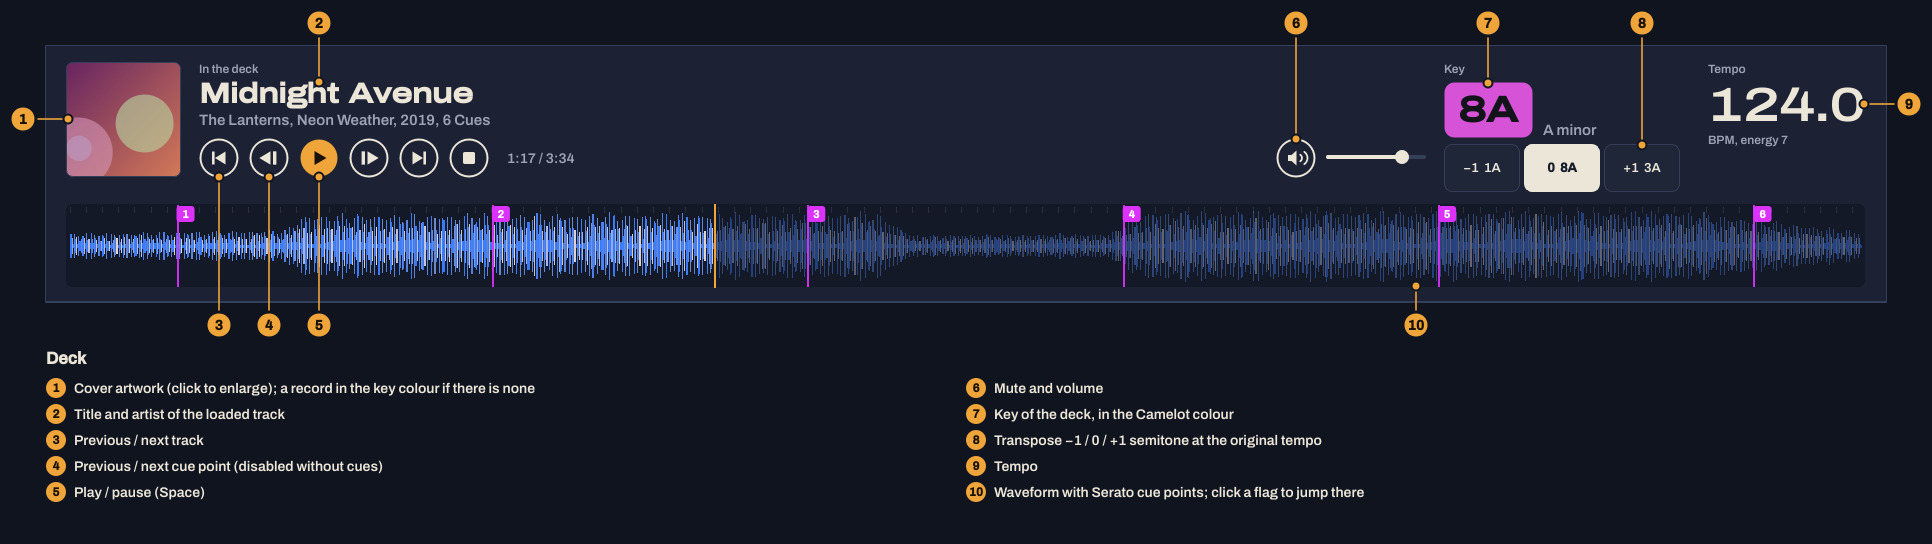
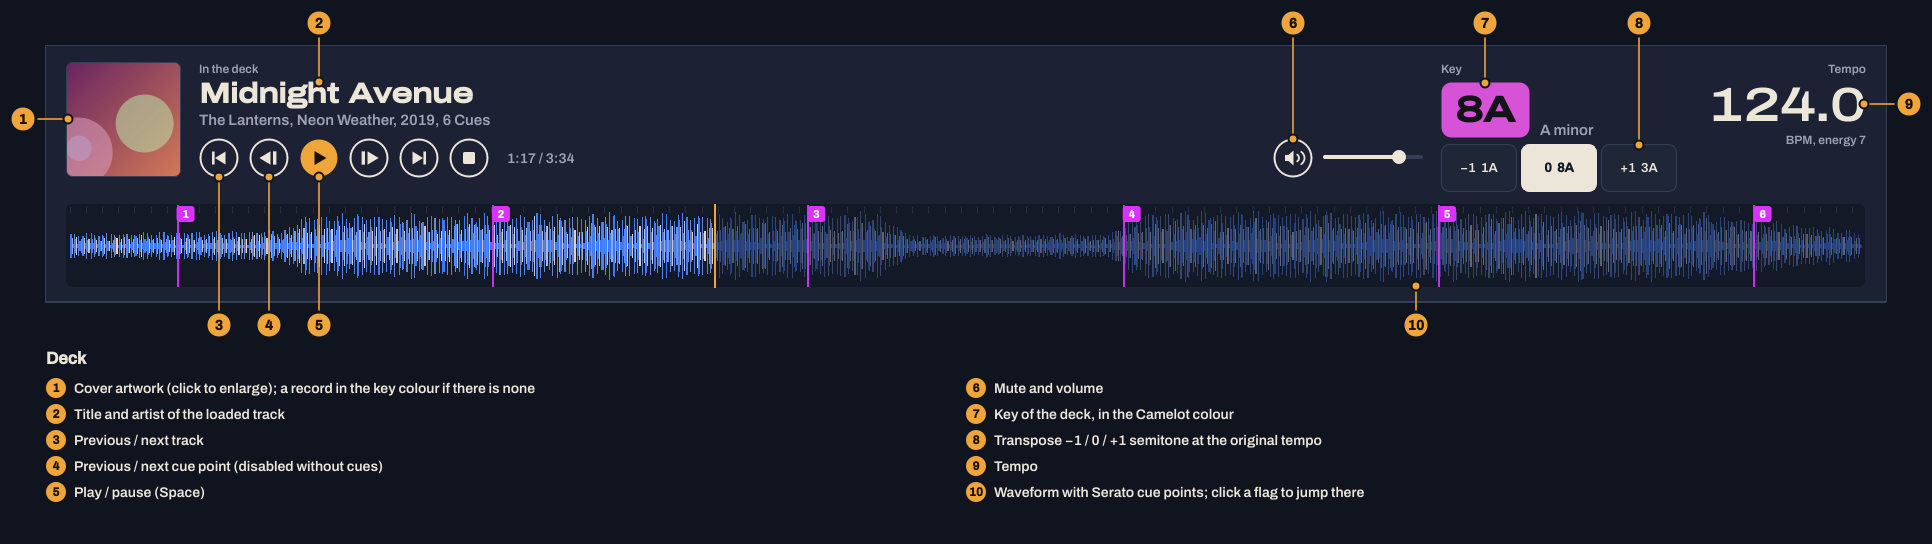
Deck: fixed tempo column so the deck no longer shifts
- Tempo, its caption and "BPM, energy" sit in a column of fixed width
  (widest possible tempo for the current language and font), right-aligned:
  a two-digit tempo no longer moves the key block and volume by 36 px
- Key name next to the chip gets a fixed width as well; names that do not
  fit are shortened with "…" (full name in the tooltip)
- Widths are recalculated on language, font and style changes
- Test: key chip, transpose buttons and volume stay put across tempos and
  key names (English and German); docs screenshots refreshed

Claude-Session: https://claude.ai/code/session_01WHPo8iWepkYybUHWQj5Dcp

diff --git a/keytool/gui/player.py b/keytool/gui/player.py
@@ -693,6 +693,9 @@ class PlayerPanel(QWidget, Translatable):
         self.bpm_sub = QLabel(); self.bpm_sub.setObjectName("deckSmall")
         tempo.addWidget(self.tempo_caption); tempo.addWidget(self.bpm_lbl); tempo.addWidget(self.bpm_sub)
         tempo.addStretch(1)
+        # fixed width, right-aligned: a two-digit tempo must not move the key block (see _fix_widths)
+        for lbl in (self.tempo_caption, self.bpm_lbl, self.bpm_sub):
+            lbl.setAlignment(Qt.AlignRight | Qt.AlignVCenter)
         top.addLayout(tempo, 0)
 
         self.wave = WaveformView()
@@ -733,6 +736,7 @@ class PlayerPanel(QWidget, Translatable):
         self.key_caption.setText(tr("key"))
         self.key_caption.setToolTip(tr("transpose"))
         self.tempo_caption.setText(tr("tempo_short"))
+        self._fix_widths()
         self.caption.setText(tr("deck_caption"))
         self.prev_btn.setToolTip(tr("prev_track") + " (Ctrl+←)")
         self.next_btn.setToolTip(tr("next_track") + " (Ctrl+→)")
@@ -771,12 +775,42 @@ class PlayerPanel(QWidget, Translatable):
     def showEvent(self, e):
         super().showEvent(e)
         QTimer.singleShot(0, self._fit_cover)
+        QTimer.singleShot(0, self._refit)
+
+    def _refit(self):
+        self._fix_widths()
+        self._update_title()
 
     def changeEvent(self, e):
         super().changeEvent(e)
         from PySide6.QtCore import QEvent
         if e.type() in (QEvent.FontChange, QEvent.StyleChange):
             QTimer.singleShot(0, self._fit_cover)
+            QTimer.singleShot(0, self._refit)
+
+    KEY_NAME_MAX = 170          # px; longer key names are shortened with "…" (full name in the tooltip)
+
+    def _fix_widths(self):
+        """Give the tempo column and the key name a fixed width for the current language and fonts, so the
+        deck does not shift when the tempo has two instead of three digits or the key name changes length."""
+        for lbl in (self.bpm_lbl, self.bpm_sub, self.tempo_caption, self.key_name):
+            lbl.ensurePolished()
+        num = self.bpm_lbl.fontMetrics()
+        small = self.bpm_sub.fontMetrics()
+        w = max(num.horizontalAdvance(fmt_number(888.8)), num.horizontalAdvance("–"),
+                small.horizontalAdvance(tr("bpm_energy", e=10)),
+                self.tempo_caption.fontMetrics().horizontalAdvance(self.tempo_caption.text())) + 4
+        for lbl in (self.tempo_caption, self.bpm_lbl, self.bpm_sub):
+            lbl.setFixedWidth(w)
+        fm = self.key_name.fontMetrics()
+        longest = max(fm.horizontalAdvance(f"{Key(pc, minor).long_name(tr.lang)}, +1")
+                      for pc in range(12) for minor in (False, True))
+        self.key_name.setFixedWidth(min(self.KEY_NAME_MAX, longest + 2))
+
+    def _set_key_name(self, text: str):
+        fm = self.key_name.fontMetrics()
+        self.key_name.setText(fm.elidedText(text, Qt.ElideRight, self.key_name.width()))
+        self.key_name.setToolTip(text if self.key_name.text() != text else "")
 
     def set_dark(self, dark: bool):
         self.wave.dark = dark
@@ -818,7 +852,7 @@ class PlayerPanel(QWidget, Translatable):
         if playing_key:
             self.key_chip.set_key(playing_key.code, playing_key.format(self.notation))
             name = playing_key.long_name(tr.lang)
-            self.key_name.setText(name if not st else f"{name}, {st:+d}")
+            self._set_key_name(name if not st else f"{name}, {st:+d}")
         else:
             self.key_chip.set_key(None, "–")
             self.key_name.setText("")

diff --git a/tests/test_deck_layout.py b/tests/test_deck_layout.py
@@ -1,0 +1,40 @@
+"""The deck must not shift when the tempo or the key name changes length."""
+import os
+
+os.environ.setdefault("QT_QPA_PLATFORM", "offscreen")
+
+import pytest
+
+pytest.importorskip("PySide6")
+from PySide6.QtCore import QPoint  # noqa: E402
+from PySide6.QtWidgets import QApplication  # noqa: E402
+
+from keytool.keys import Key  # noqa: E402
+
+
+@pytest.mark.parametrize("lang", ["en", "de"])
+def test_key_block_stays_put(tmp_path, monkeypatch, lang):
+    monkeypatch.setenv("KEYTOOL_DATA_DIR", str(tmp_path))
+    app = QApplication.instance() or QApplication([])
+    import keytool.gui.player as pl
+    monkeypatch.setattr(pl, "HAVE_MULTIMEDIA", False)
+    from keytool.config import Settings
+    from keytool.gui import theme
+    from keytool.i18n import set_language
+    try:
+        set_language(lang)
+        theme.apply_theme(app, "dark")
+        p = pl.PlayerPanel(Settings())
+        p.resize(1400, 230); p.show(); app.processEvents()
+        spots = set()
+        for bpm, cam, st in ((98.0, "8A", 0), (124.5, "12A", 1), (174.0, "3B", -1), (None, "6B", 0)):
+            p.semitones = st
+            p.set_track(dict(id=1, path="/x.mp3", title="T", artist="A", key=Key.parse(cam).code, bpm=bpm, energy=10))
+            app.processEvents()
+            spots.add((p.key_chip.mapTo(p, QPoint(0, 0)).x(), p.tp_buttons[0].mapTo(p, QPoint(0, 0)).x(),
+                       p.mute_btn.mapTo(p, QPoint(0, 0)).x()))
+        assert len(spots) == 1, spots
+        assert p.bpm_lbl.text() in ("–",)                       # last case: no tempo
+        p.deleteLater(); app.processEvents()
+    finally:
+        set_language("de")
